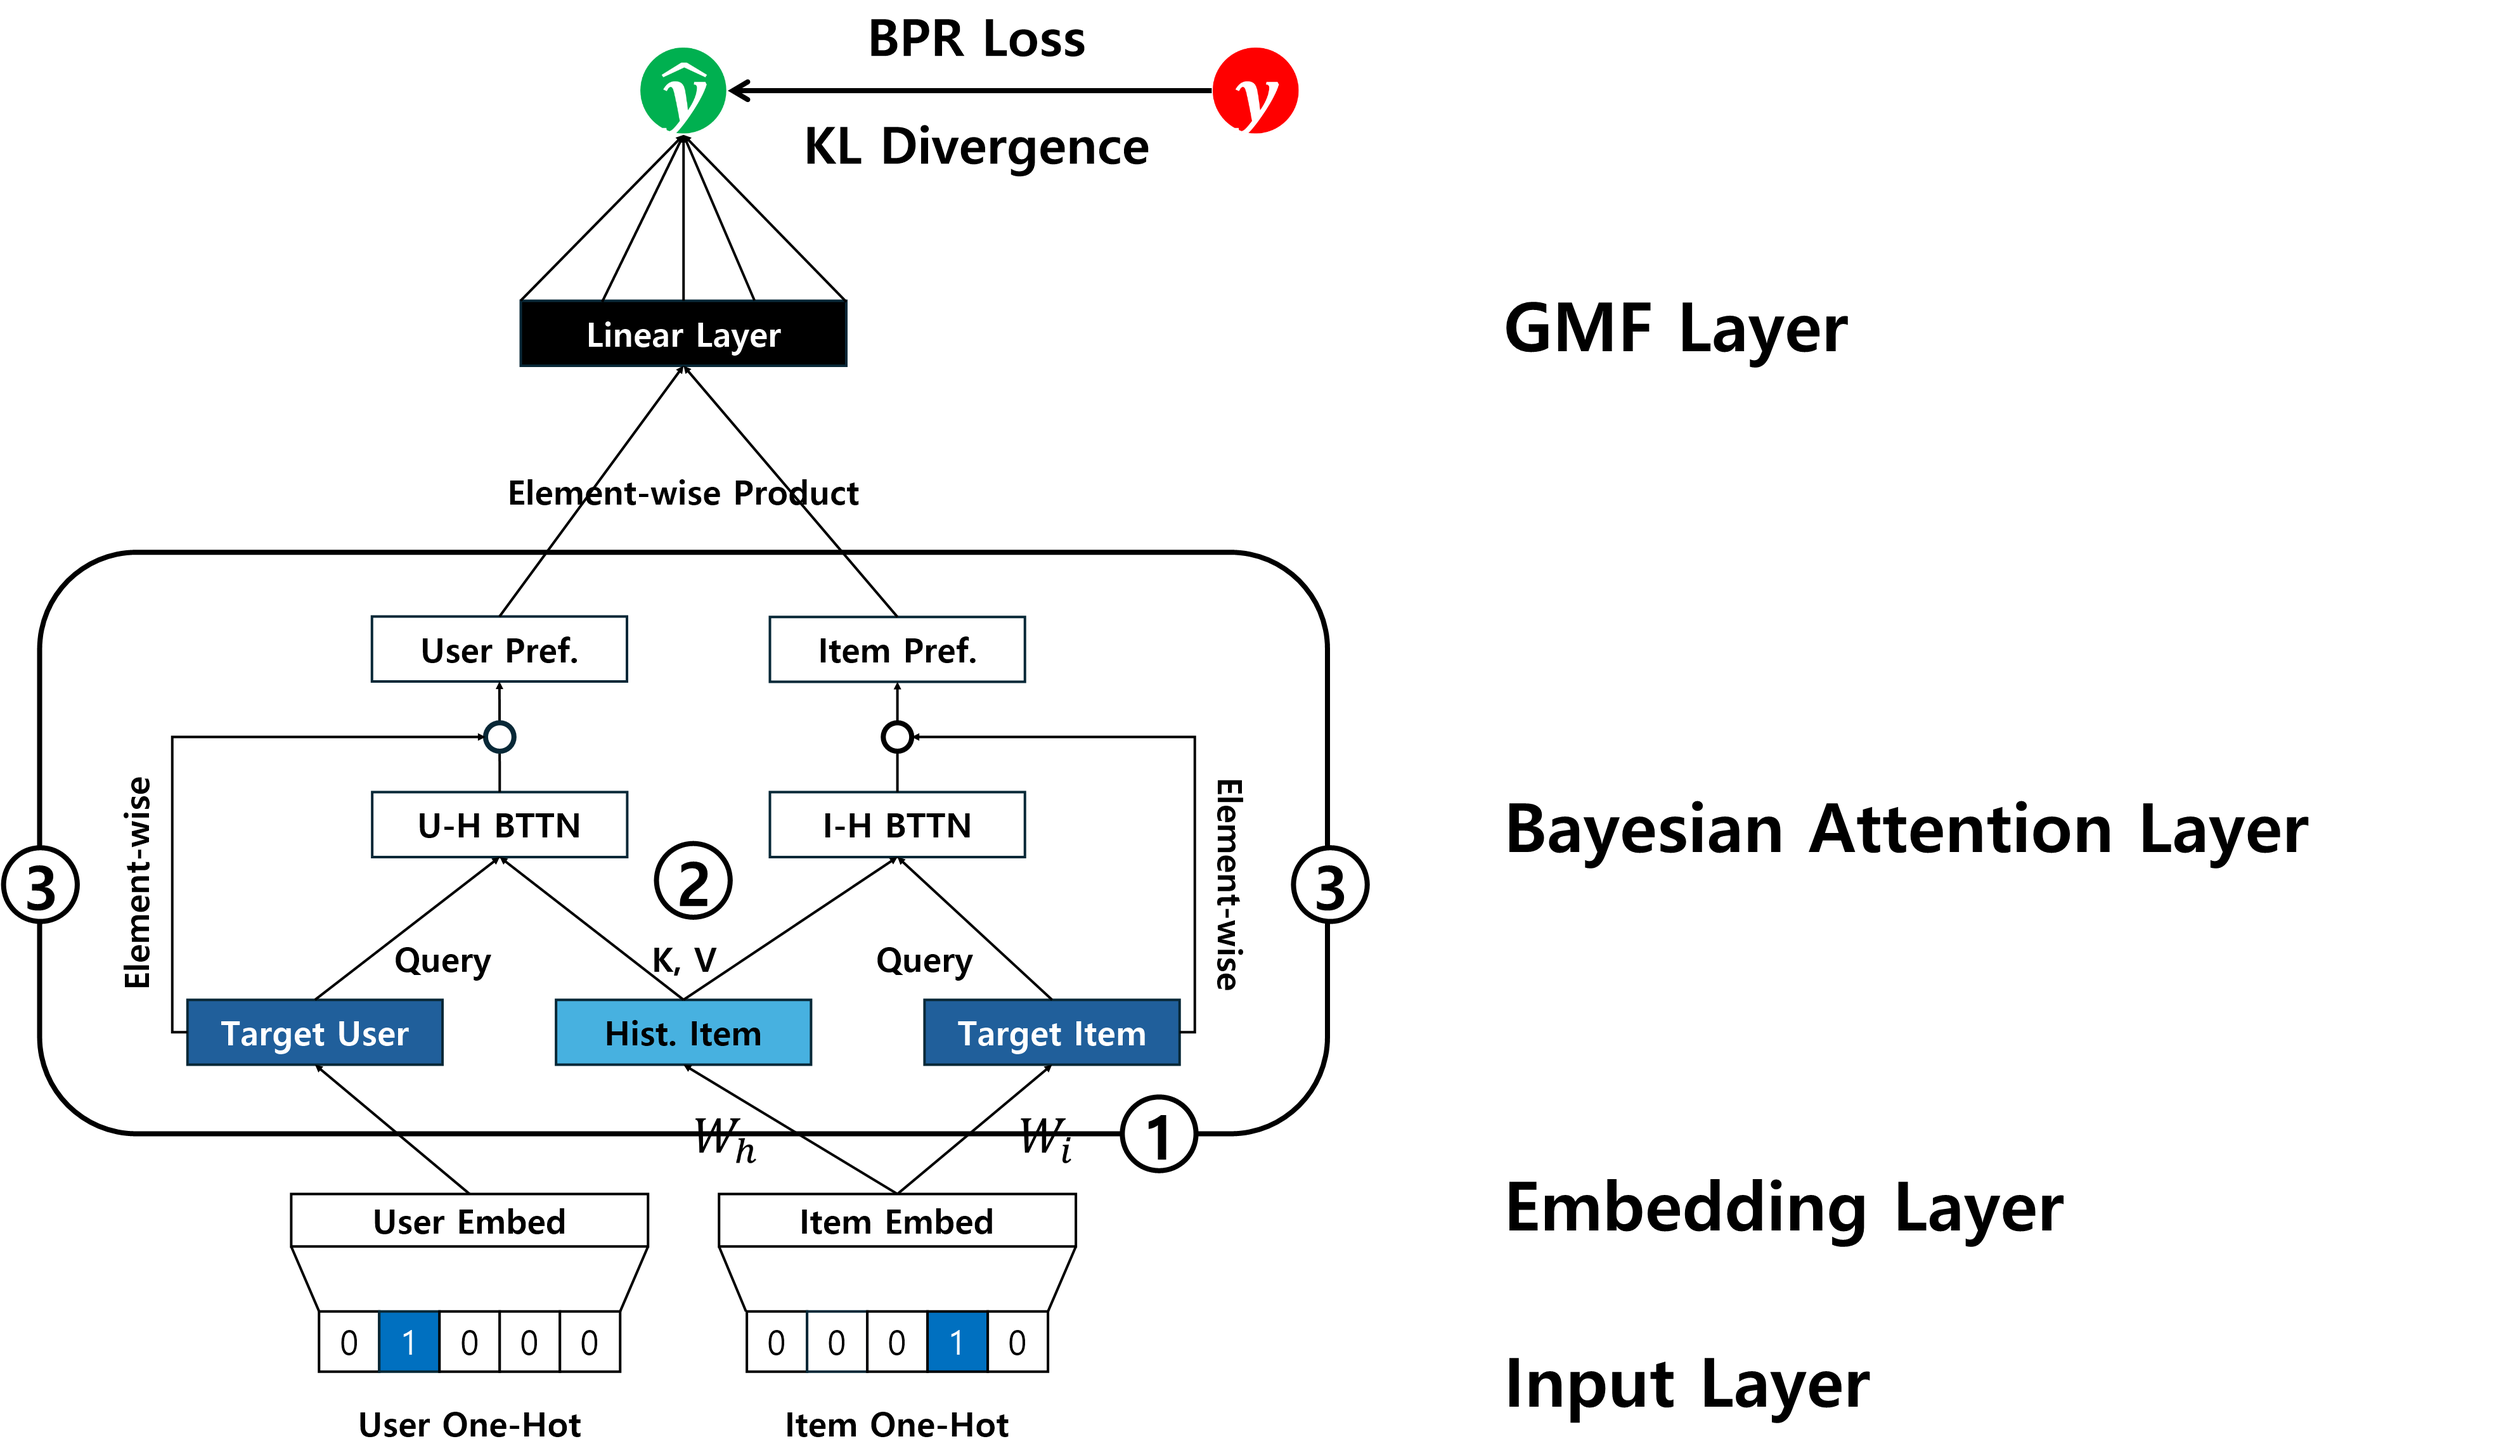
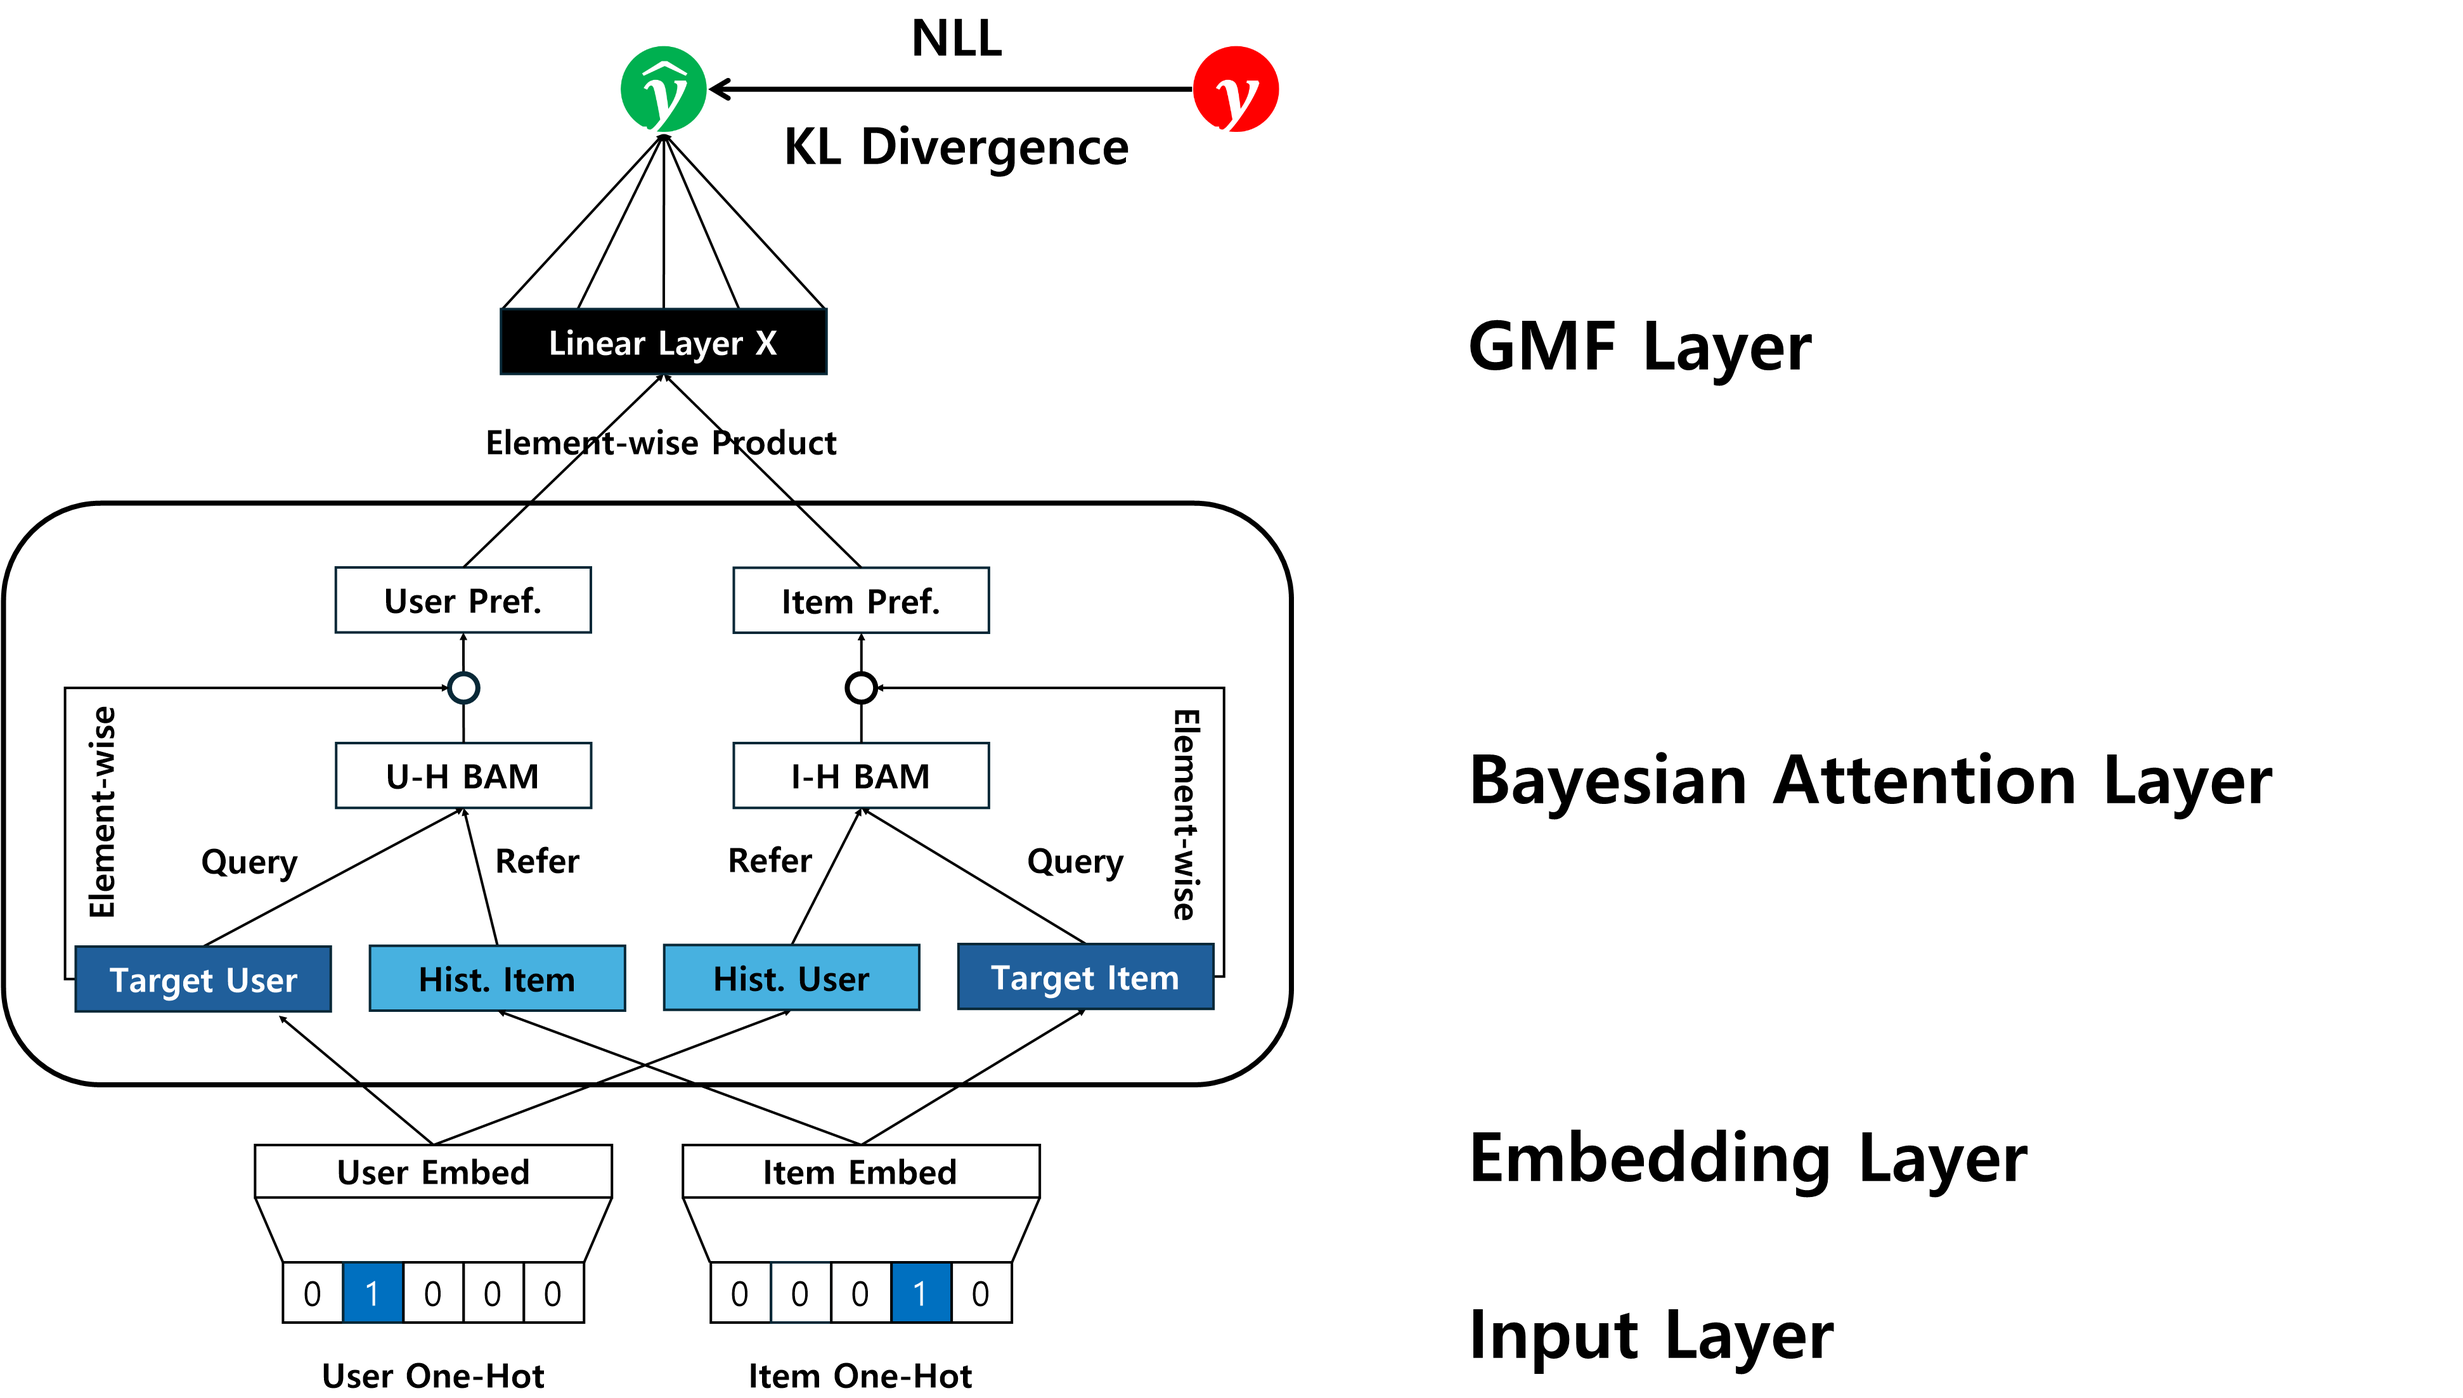
readme

diff --git a/README.md b/README.md
@@ -1,3 +1,156 @@
 # Bayesian Attentional Matrix Factorization
 
+
+## idea
+
+implicit feedback represents observable user actions rather than direct preference statements. so it inherently suffers from ambiguity as a signal of true user preference. To address this issue, this study reinterprets the ambiguity of implicit feedback signals as a problem of epistemic uncertainty regarding user preferences and proposes a latent factor model that incorporates this uncertainty within a Bayesian framework.
+
+Specifically, the behavioral vector of a user, which is learned from implicit feedback, is restructured within the embedding space using attention mechanisms applied to the user’s interaction history, forming an implicit preference representation. Similarly, item feature vectors are reinterpreted in the context of the item’s interaction history.
+
+This study replaces the deterministic attention scores with stochastic attention weights treated as random variables whose distributions are modeled using a Bayesian approach. Through this design, the proposed model effectively captures the uncertainty stemming from implicit feedback within the vector representations of users and items.
+
+## architecture
+
+the original BAMF applies only the user’s history as reference information in the Bayesian Attention Modules. however, after the conference, additional experimental results showed that using not only the user’s history but also the item’s history improved performance. so, we corrected our model to:
+
 ![01](/desc/architecture.png)
+
+### notation
+
+#### idx
+
+- $u$: target user
+- $i$: target item
+- $v \in R_{i}^{+} \setminus \{u\}$: history users of target item (target user $u$ is excluded)
+- $j \in R_{u}^{+} \setminus \{i\}$: history items of target user (target item $i$ is excluded)
+
+#### vector
+
+- $p \in \mathbb{R}^{M \times K}$: user id embedding vector (we define it as global behavior representation)
+- $q \in \mathbb{R}^{N \times K}$: item id embedding vector (we define it as global behavior representation)
+- $c_{u} \in \mathbb{R}^{M \times K}$: user context vector (we define it as local preference representation)
+- $c_{i} \in \mathbb{R}^{N \times K}$: item context vector (we define it as local preference representation)
+
+#### function
+
+- $\mathrm{bam}(q,k,v)$: bayesian attention module (only single head)
+- $\mathrm{layernorm}(\cdot)$: layer normalization
+- $\odot$: element-wise product
+- $\oplus$: vector concatenation
+- $\mathrm{ReLU}$: activation function, ReLU
+- $\sigma$: activation function, sigmoid
+- $W$: linear transformation matrix
+- $h$: linear trainsformation vector
+- $b$: bias term
+
+### modeling
+
+#### user representation
+
+- user id embedding:
+
+$$
+p_{u}=\mathrm{embedding}(u)
+$$
+
+- user-hist. bam:
+
+$$
+c_{u}=\mathrm{bam}(p_{u}, \forall q_{j}, \forall q_{j})
+$$
+
+- user final representation vector:
+
+$$
+z_{u}=\mathrm{layernorm}(p_{u} \odot c_{u})
+$$
+
+#### item representation
+
+- item id embedding:
+
+$$
+q_{i}=\mathrm{embedding}(i)
+$$
+
+- item-hist. bam:
+
+$$
+c_{i}=\mathrm{bam}(q_{i}, \forall p_{v}, \forall p_{v})
+$$
+
+- item final representation vector:
+
+$$
+z_{i}=\mathrm{layernorm}(q_{i} \odot c_{i})
+$$
+
+#### agg, matching & predict
+
+- general matrix factorization:
+
+$$
+z=z_{u} \odot z_{i}
+$$
+
+- logit:
+
+$$
+x_{u,i}=h^{T}(Wz+b)
+$$
+
+- prediction:
+
+$$
+\hat{y}_{u,i}=x_{u,i}
+$$
+
+#### objective function
+
+$$
+\mathrm{ELBO}:= -\sum_{(u,i)\in\Omega}{\left(\mathrm{NLL} + \sum_{j \in R_{u}^{+} \setminus \{i\}}{\mathrm{KL}^{(u,j)}} + \sum_{v \in R_{i}^{+} \setminus \{u\}}{\mathrm{KL}^{(v,i)}} \right)}
+$$
+
+- apply `bce` to pointwise `nll`:
+
+$$
+\mathcal{L}_{\mathrm{BCE}}:=-\sum_{(u,i)\in\Omega}{y_{u,i}\ln{\hat{y}_{u,i}} + (1-y_{u,i})\ln{(1-\hat{y}_{u,i})}}
+$$
+
+- apply `bpr` to pairwise `nll`:
+
+$$
+\mathcal{L}_{\mathrm{BPR}}:=-\sum_{(u,pos,neg)\in\Omega}{\ln{\sigma(x_{u,pos} - x_{u,neg})}+\lambda_{\Theta}\Vert \Theta \Vert^{2}}
+$$
+
+### bayesian attention modules application
+
+we use `prod` and `concat` as attention score functions, proposed by "NAIS: Neural attentive item similarity model for recommendation (He et al., 2018)".
+
+- `prod` function:
+
+$$
+f(q,k)=h \cdot \mathrm{ReLU}(W \cdot [p \oplus q] + b)
+$$
+
+- `concat` function:
+
+$$
+f(q,k)=h \cdot \mathrm{ReLU}(W \cdot [p \odot q] + b)
+$$
+
+if the number of key is too large, attention weights become flat. so, in simplex projection, we introduced smoothing factor $0 < \beta \le 1$, to increase the individual weight values, and sharpening factor $1 \le \tau$, to widen the gap between weights.
+
+$$
+\alpha= \frac{s^{\tau}}{(\sum{s^{\tau}})^{\beta}}
+$$
+
+## experiment
+
+to measure the performance of the proposed model, we used the following dataset:
+
+- [movielens latest small](https://grouplens.org/datasets/movielens/latest/)
+
+we divided the dataset into a ratio of 8:1:1 and used each for `trn`, `val`, and `tst`. negative sampling ratio @ `trn`, `val` is 1:4 (pointwise), 1:1 (pairwise). negative sampling ratio @ `tst` is 1:99.
+
+additionally, a `leave-one-out` dataset was created to monitor early stopping epoch using performance evaluation metrics(`ndcg`). the reason validation loss was not used as a criterion is because of the perceived discrepancy between the performance evaluation metrics and the loss function.
